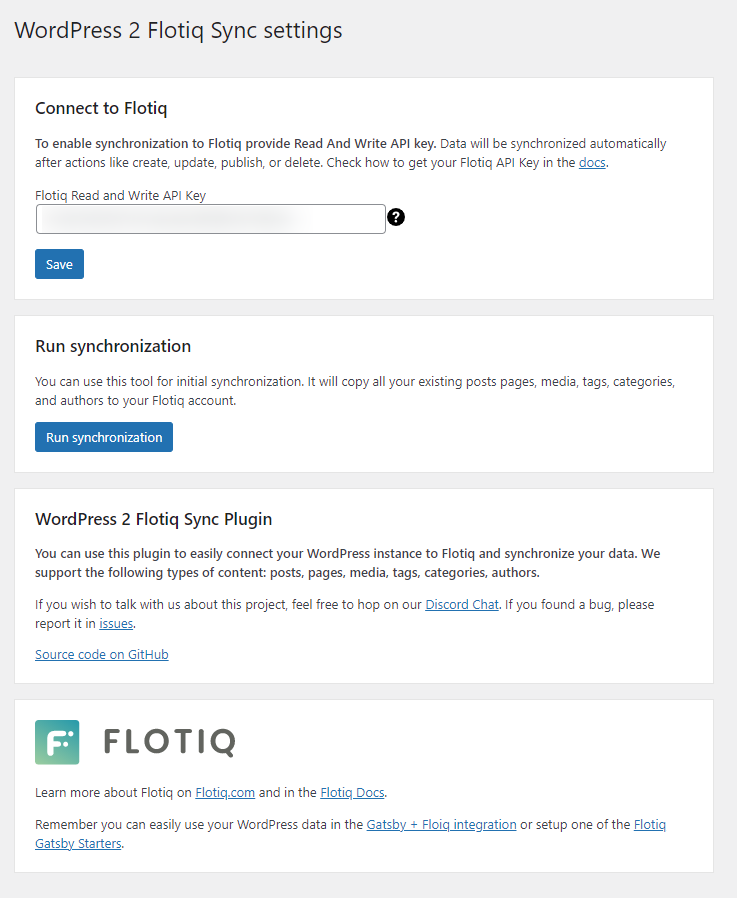
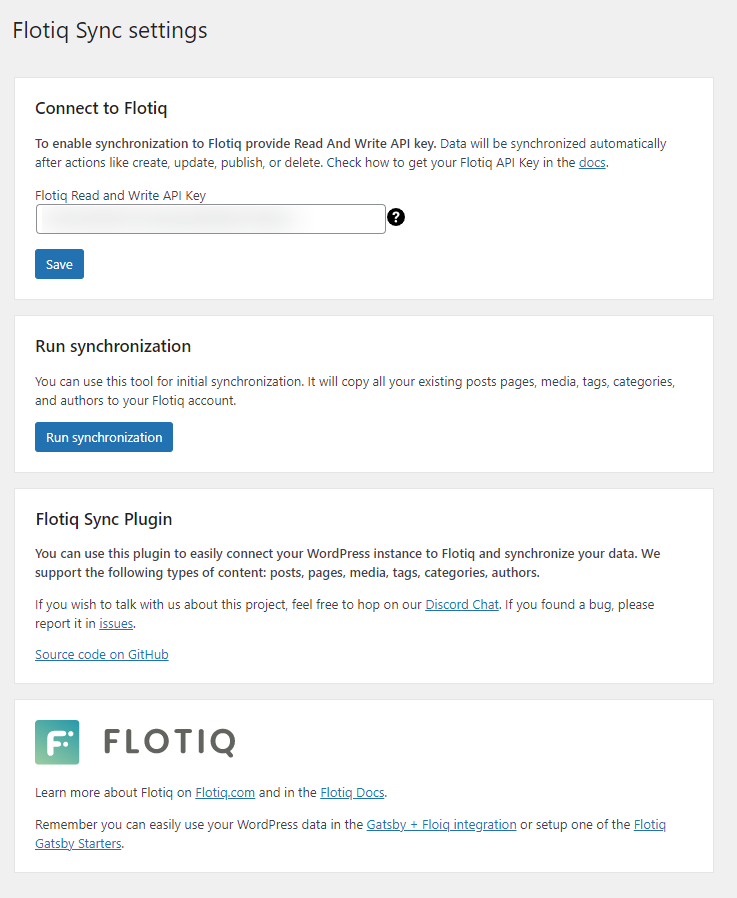
Change plugin name to Flotiq Sync

Changed region(s): [[0.0, 0.0, 0.4681, 0.0624], [0.0312, 0.5612, 0.3745, 0.5924]]

diff --git a/src/admin/templates/settings.php b/src/admin/templates/settings.php
@@ -1,5 +1,5 @@
 <div class="wrap flotiq-admin">
-    <h1><?php echo __('WP 2 Flotiq Sync settings') ?></h1>
+    <h1><?php echo __('Flotiq Sync settings') ?></h1>
     <?php if (array_key_exists('saved', $_REQUEST) && $_REQUEST['saved']) { ?>
         <div id="setting-error-settings_updated" class="updated settings-error notice is-dismissible">
             <p><strong><?php echo __('The settings are saved') ?>.</strong></p>
@@ -58,7 +58,7 @@
 
         <div class="module">
 
-            <h2><?php echo __('WP 2 Flotiq Sync Plugin') ?></h2>
+            <h2><?php echo __('Flotiq Sync Plugin') ?></h2>
 
             <p>
                 <strong>

diff --git a/src/admin/wordpress-2-flotiq-sync-admin.php b/src/admin/wordpress-2-flotiq-sync-admin.php
@@ -16,8 +16,8 @@ function wordpress_2_flotiq_sync_add_menu()
     global $admin_update_search_url;
     if (function_exists('add_menu_page')) {
         add_options_page(
-            'WP 2 Flotiq Sync Settings',
-            'WP 2 Flotiq Sync',
+            'Flotiq Sync Settings',
+            'Flotiq Sync',
             'manage_options',
             'wordpress_2_flotiq_sync_edit',
             'wordpress_2_flotiq_sync_edit'

diff --git a/wp-2-flotiq-sync.php b/wp-2-flotiq-sync.php
@@ -1,6 +1,6 @@
 <?php
 /*
- Plugin Name: WP 2 Flotiq Sync
+ Plugin Name: Flotiq Sync
  Description: Use this WordPress plugin to easily connect your Wordpress instance to Flotiq and synchronize your data.
  Version: 1.0
  Author: <a href="https://flotiq.com">Flotiq</a>

diff --git a/README.md b/README.md
@@ -2,7 +2,7 @@
     <img src="https://editor.flotiq.com/fonts/fq-logo.svg" alt="Flotiq logo" title="Flotiq" align="right" height="60" />
 </a>
 
-WP 2 Flotiq Sync
+WordPress 2 Flotiq Sync
 ========================
 
 You can use this Wordpress plugin to easily connect your Wordpress instance to Flotiq and synchronize your data.
@@ -12,13 +12,13 @@ You can use this Wordpress plugin to easily connect your Wordpress instance to F
 Use git clone in wordpress plugins directory `wp-content/plugins`
 
 ````
-git clone https://github.com/flotiq/wordpress-2-flotiq-sync.git
+git clone https://github.com/flotiq/wordpress-2-flotiq-sync.git flotiq-sync
 ````
 
 Or [download](https://github.com/flotiq/wordpress-2-flotiq-sync/archive/refs/heads/main.zip) zip archive and extract to plugins directory.
 
 If finished, enable the plugin in the plugin list in wordpress.
-WP 2 Flotiq Sync will now appear in the setup menu.
+WordPress 2 Flotiq Sync will now appear in the setup menu.
 
 ## Supported content
 
